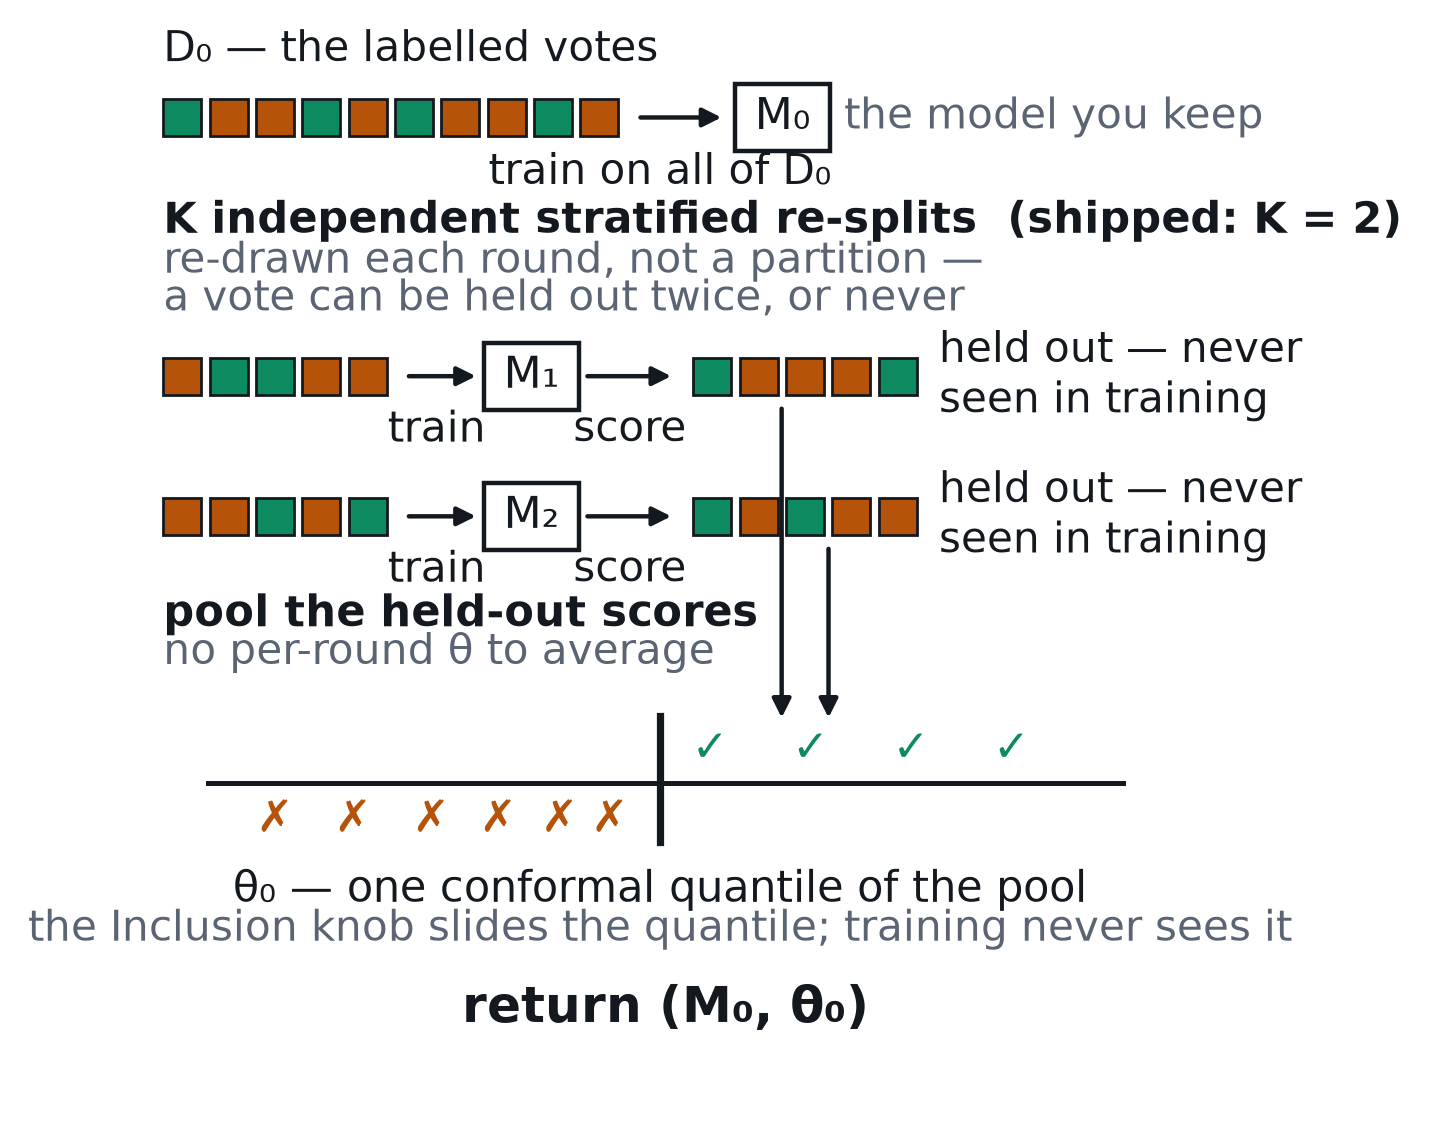
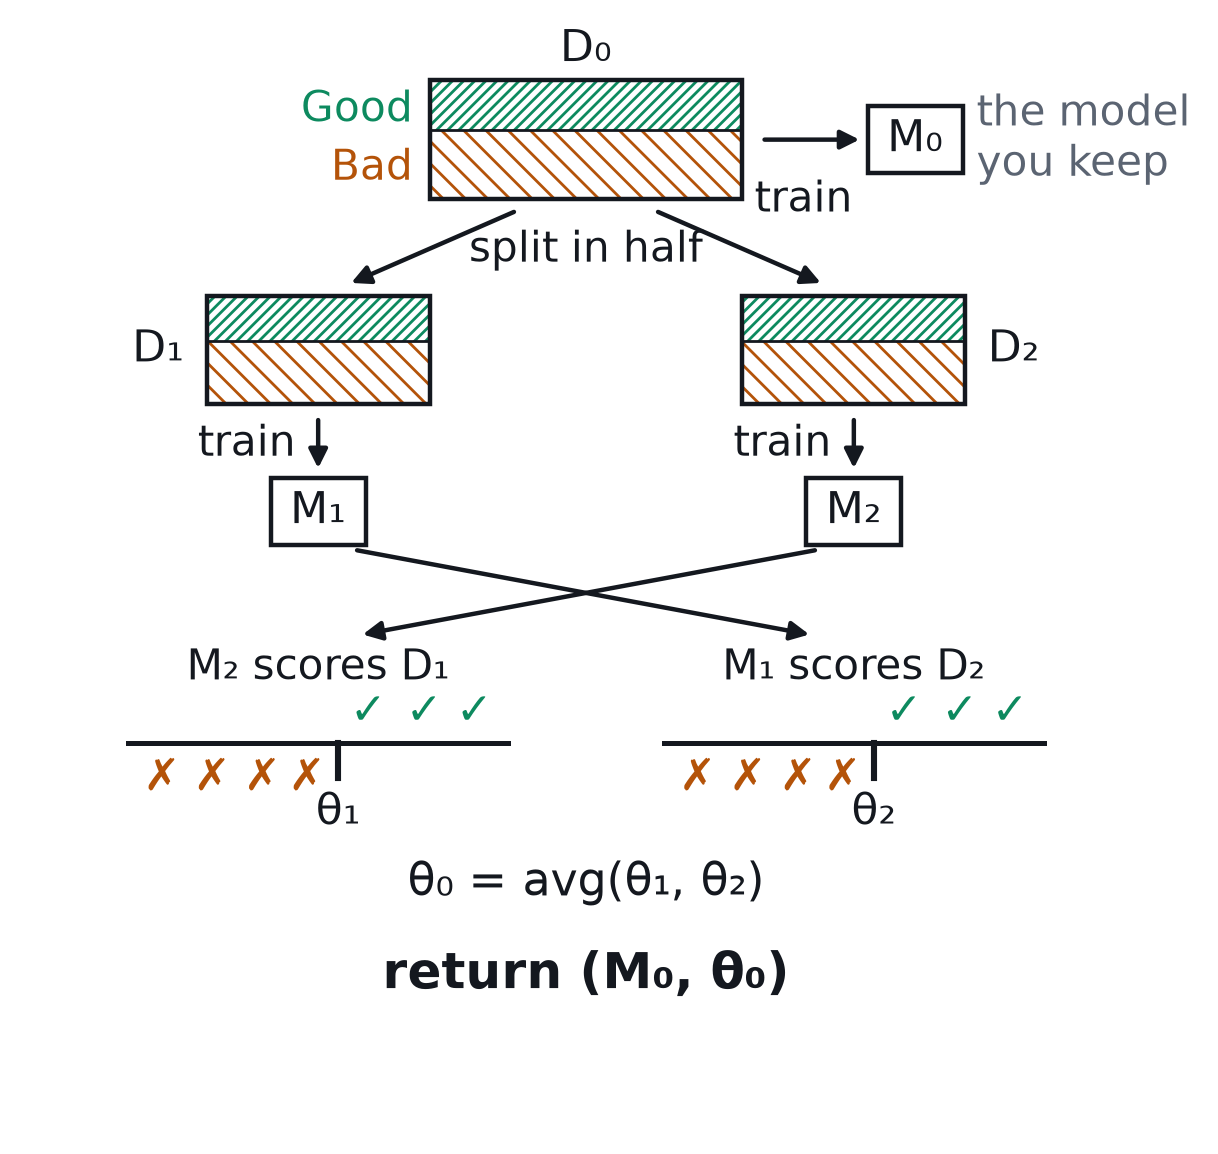
Redraw the cross-calibration figure as the original half-split idea
Per feedback on issue #3207: the iteration-1 slide should teach the
initial version of cross-calibration (partition in half, train per half,
cross-score, average the two cuts), leaving pooling / quantile / re-drawn
splits as later refinements of the story. Media are amorphous green (Good)
and red (Bad) regions as in the mockup, and no implementation jargon
appears in the figure.

Claude-Session: https://claude.ai/code/session_0189rZgYH7wrcWb1QEZoAdxN

Changed region(s): [[0.0, 0.0309, 0.9984, 0.9259]]

diff --git a/slides/figs/src/make-calib-figs.py b/slides/figs/src/make-calib-figs.py
@@ -69,15 +69,16 @@ def gaussian(x: np.ndarray, mu: float, var: float) -> np.ndarray:
 
 
 def xcal_flow_fig() -> None:
-    """Schematic of cross-calibration (issue #3207), drawn to match the code.
+    """Schematic of the original cross-calibration idea (issue #3207).
 
-    Deliberate divergences from the hand mockup the issue attached, because the
-    mockup drew a different algorithm than `calculate_cross_calibration_threshold`:
-    the rounds are independent stratified *re-draws* of the whole labelset (not
-    a partition into halves), and there are no per-fold thresholds to average —
-    the held-out scores are pooled and one conformal quantile is cut
-    (`threshold_from_fold_orderings`). Green = Good, red = Bad, everything else
-    ink-on-white per the issue.
+    Follows the issue's hand mockup: this is the *iteration-1* slide, so it
+    draws the simple initial version — partition the labelled data in half,
+    train a model per half, score the half each model never saw, find a cut
+    per half, and average the two cuts. The refinements the shipped code adds
+    on top (pooled folds, the conformal quantile, re-drawn splits) are later
+    iterations of the deck's story and deliberately absent here. Green = Good
+    media, red = Bad media (amorphous regions, as in the mockup); everything
+    else ink on white.
     """
     from matplotlib.patches import FancyArrowPatch, Rectangle  # noqa: PLC0415
 
@@ -86,36 +87,22 @@ def xcal_flow_fig() -> None:
     ax.set_ylim(0, 10)
     ax.set_axis_off()
 
-    # One square per labelled vote; True = Good (green), False = Bad (rust).
-    votes = [True, False, False, True, False, True, False, False, True, False]
-    sq, gap = 0.34, 0.075
+    def data_block(x0: float, y0: float, w: float, h: float) -> None:
+        """A block of labelled media: an amorphous green (Good) region over a red (Bad) one."""
+        good_h = 0.42 * h
+        ax.add_patch(
+            Rectangle((x0, y0 + h - good_h), w, good_h, facecolor="white", edgecolor=GREEN, hatch="//////", linewidth=0, zorder=2)
+        )
+        ax.add_patch(
+            Rectangle((x0, y0), w, h - good_h, facecolor="white", edgecolor=RUST, hatch="\\\\\\", linewidth=0, zorder=2)
+        )
+        ax.add_patch(Rectangle((x0, y0), w, h, facecolor="none", edgecolor=INK, linewidth=1.6, zorder=3))
+        ax.plot([x0, x0 + w], [y0 + h - good_h] * 2, color=INK, linewidth=1.0, zorder=3)
 
-    def vote_row(x0: float, y0: float, labels: list[bool]) -> float:
-        for i, good in enumerate(labels):
-            ax.add_patch(
-                Rectangle(
-                    (x0 + i * (sq + gap), y0),
-                    sq,
-                    sq,
-                    facecolor=GREEN if good else RUST,
-                    edgecolor=INK,
-                    linewidth=1.0,
-                    zorder=3,
-                )
-            )
-        return x0 + len(labels) * (sq + gap) - gap
-
-    def arrow(xy_from: tuple[float, float], xy_to: tuple[float, float], rad: float = 0.0) -> None:
+    def arrow(xy_from: tuple[float, float], xy_to: tuple[float, float]) -> None:
         ax.add_patch(
             FancyArrowPatch(
-                xy_from,
-                xy_to,
-                arrowstyle="-|>",
-                mutation_scale=14,
-                color=INK,
-                linewidth=1.6,
-                connectionstyle=f"arc3,rad={rad}",
-                zorder=2,
+                xy_from, xy_to, arrowstyle="-|>", mutation_scale=14, color=INK, linewidth=1.6, zorder=2
             )
         )
 
@@ -126,63 +113,49 @@ def xcal_flow_fig() -> None:
         )
         ax.text(cx, cy, label, ha="center", va="center", fontsize=16, color=INK, zorder=4)
 
-    # ── the model you keep: train M0 on every vote ────────────────────────────
-    ax.text(0.5, 9.6, "D₀ — the labelled votes", ha="left", va="bottom", fontsize=15, color=INK)
-    xa_end = vote_row(0.5, 9.0, votes)
-    arrow((xa_end + 0.15, 9.17), (5.55, 9.17))
-    ax.text(4.95, 8.85, "train on all of D₀", ha="center", va="top", fontsize=15, color=INK)
-    model_box(6.05, 9.17, "M₀")
-    ax.text(6.6, 9.17, "the model you keep", ha="left", va="center", fontsize=15, color=SOFT)
+    def score_line(cx: float, theta_label: str) -> None:
+        """Held-out scores on a number line: Bad low, Good high, a cut between."""
+        y = 3.55
+        ax.plot([cx - 1.7, cx + 1.7], [y, y], color=INK, linewidth=1.8, zorder=2)
+        for x in (-1.4, -0.95, -0.5, -0.1):
+            ax.text(cx + x, y - 0.12, "✗", ha="center", va="top", fontsize=16, color=RUST, fontweight="bold")
+        for x in (0.45, 0.95, 1.4):
+            ax.text(cx + x, y + 0.08, "✓", ha="center", va="bottom", fontsize=16, color=GREEN, fontweight="bold")
+        ax.plot([cx + 0.18] * 2, [y - 0.32, y], color=INK, linewidth=2.2, zorder=3)
+        ax.text(cx + 0.18, y - 0.44, theta_label, ha="center", va="top", fontsize=16, color=INK)
 
-    # ── K independent stratified re-splits ────────────────────────────────────
-    ax.text(
-        0.5, 8.1, "K independent stratified re-splits  (shipped: K = 2)", fontsize=15.5, color=INK, fontweight="bold"
-    )
-    ax.text(0.5, 7.73, "re-drawn each round, not a partition —", fontsize=15, color=SOFT)
-    ax.text(0.5, 7.38, "a vote can be held out twice, or never", fontsize=15, color=SOFT)
+    # ── D0 and the model you keep ─────────────────────────────────────────────
+    ax.text(5.0, 9.78, "D₀", ha="center", va="bottom", fontsize=16, color=INK)
+    data_block(3.6, 8.6, 2.8, 1.1)
+    ax.text(3.45, 9.42, "Good", ha="right", va="center", fontsize=15, color=GREEN)
+    ax.text(3.45, 8.88, "Bad", ha="right", va="center", fontsize=15, color=RUST)
+    arrow((6.55, 9.15), (7.5, 9.15))
+    ax.text(6.95, 8.78, "train", ha="center", va="top", fontsize=15, color=INK)
+    model_box(7.95, 9.15, "M₀")
+    ax.text(8.5, 9.15, "the model\nyou keep", ha="left", va="center", fontsize=15, color=SOFT)
 
-    # Round 1 holds out votes {0, 2, 4, 6, 8}; round 2 re-draws {0, 2, 3, 7, 9}.
-    # Both splits are stratified: 2 Good + 3 Bad on each side, every round.
-    holdouts = [[0, 2, 4, 6, 8], [0, 2, 3, 7, 9]]
-    for row, (y0, held) in enumerate(zip((6.6, 5.3), holdouts)):
-        train = [votes[i] for i in range(len(votes)) if i not in held]
-        cal = [votes[i] for i in held]
-        yc = y0 + sq / 2
-        xt_end = vote_row(0.5, y0, train)
-        arrow((xt_end + 0.15, yc), (3.35, yc))
-        ax.text((xt_end + 3.4) / 2, y0 - 0.14, "train", ha="center", va="top", fontsize=15, color=INK)
-        model_box(3.8, yc, f"M{chr(0x2081 + row)}")
-        arrow((4.25, yc), (5.1, yc))
-        ax.text(4.68, y0 - 0.14, "score", ha="center", va="top", fontsize=15, color=INK)
-        xc_end = vote_row(5.25, y0, cal)
-        ax.text(xc_end + 0.2, yc, "held out — never\nseen in training", ha="left", va="center", fontsize=15, color=INK)
-        # Held-out scores drop into the pooled line below; the x positions sit
-        # in the gaps between round 2's squares so the arrows cross nothing.
-        arrow((6.04 + 0.42 * row, y0 - 0.08), (6.04 + 0.42 * row, 3.55))
+    # ── split in half ─────────────────────────────────────────────────────────
+    arrow((4.4, 8.5), (2.85, 7.8))
+    arrow((5.6, 8.5), (7.15, 7.8))
+    ax.text(5.0, 8.12, "split in half", ha="center", va="center", fontsize=15, color=INK)
+    for cx, name, label_x, label_ha in ((2.6, "D₁", 1.4, "right"), (7.4, "D₂", 8.6, "left")):
+        data_block(cx - 1.0, 6.7, 2.0, 1.0)
+        ax.text(label_x, 7.2, name, ha=label_ha, va="center", fontsize=16, color=INK)
+        arrow((cx, 6.6), (cx, 6.05))
+        ax.text(cx - 0.2, 6.32, "train", ha="right", va="center", fontsize=15, color=INK)
+        model_box(cx, 5.7, "M₁" if cx < 5 else "M₂")
 
-    # ── pool the held-out scores; cut one quantile ────────────────────────────
-    ax.text(0.5, 4.45, "pool the held-out scores", fontsize=15.5, color=INK, fontweight="bold")
-    ax.text(0.5, 4.1, "no per-round θ to average", fontsize=15, color=SOFT)
-    line_y = 3.0
-    ax.plot([0.9, 9.1], [line_y, line_y], color=INK, linewidth=1.8, zorder=2)
-    for x in (1.5, 2.2, 2.9, 3.5, 4.05, 4.5):
-        ax.text(x, line_y - 0.14, "✗", ha="center", va="top", fontsize=16, color=RUST, fontweight="bold")
-    for x in (5.4, 6.3, 7.2, 8.1):
-        ax.text(x, line_y + 0.1, "✓", ha="center", va="bottom", fontsize=16, color=GREEN, fontweight="bold")
-    cut_x = 4.95
-    ax.plot([cut_x, cut_x], [line_y - 0.55, line_y + 0.62], color=INK, linewidth=2.6, zorder=4)
-    ax.text(cut_x, 2.2, "θ₀ — one conformal quantile of the pool", ha="center", va="top", fontsize=15.5, color=INK)
-    ax.text(
-        cut_x,
-        1.83,
-        "the Inclusion knob slides the quantile; training never sees it",
-        ha="center",
-        va="top",
-        fontsize=15,
-        color=SOFT,
-    )
+    # ── cross-scoring: each model scores the half it never saw ────────────────
+    arrow((2.9, 5.35), (7.05, 4.55))
+    arrow((7.1, 5.35), (2.95, 4.55))
+    ax.text(2.6, 4.05, "M₂ scores D₁", ha="center", va="bottom", fontsize=15, color=INK)
+    ax.text(7.4, 4.05, "M₁ scores D₂", ha="center", va="bottom", fontsize=15, color=INK)
+    score_line(2.6, "θ₁")
+    score_line(7.4, "θ₂")
 
-    ax.text(5.0, 0.9, "return (M₀, θ₀)", ha="center", va="center", fontsize=18, color=INK, fontweight="bold")
+    # ── average the two cuts ──────────────────────────────────────────────────
+    ax.text(5.0, 2.25, "θ₀ = avg(θ₁, θ₂)", ha="center", va="center", fontsize=16.5, color=INK)
+    ax.text(5.0, 1.4, "return (M₀, θ₀)", ha="center", va="center", fontsize=18, color=INK, fontweight="bold")
 
     save(fig, OUT, "calib-xcal-flow.png")
 

diff --git a/slides/fragments/xcal.md b/slides/fragments/xcal.md
@@ -4,26 +4,26 @@
 
 ## Cross-calibration
 
-- Re-split the votes; train fold models; score the **held-out** side
-- Pool the folds; take one **conformal quantile** cut
-- Inclusion biases the quantile — never the training
+- Split the votes in half; train a model on each half
+- Each model scores the half it **never saw** — honest scores
+- Cut each half; **average** the two cuts
 
 <!-- This is the pre-history of the line, the textbook answer everything else
      is measured against. Walk the mechanism off the figure, top to bottom:
-     the final model M0 trains on every vote, and its scores on its own
+     the model you keep, M0, trains on every vote — but its scores on its own
      training votes are optimistically shifted, so you cannot cut on them
-     directly. Instead each round re-draws a stratified Train/Calibrate split
-     of the whole labelset (not a partition — a vote can be held out twice,
-     or never), trains a fold model on the Train side, and scores the
-     held-out side with the model that never saw it — honest scores, at the
-     price of training extra models on half the data. Green squares are Good
-     votes, red are Bad, matching the checks and crosses on the pooled score
-     line.
+     directly. So split the votes in half, train a model on each half, and
+     have each model score the half it never trained on — honest scores, at
+     the price of training extra models on half the data. On each half the
+     Bad scores pile up low and the Good scores pile up high, so cut in the
+     gap; average the two cuts and hand θ0 to M0. Green is Good media, red is
+     Bad, matching the checks and crosses on the score lines.
 
-     Two design choices worth a sentence each: the folds are pooled rather
-     than averaged, so the Inclusion knob keeps its resolution over the merged
-     score set; and Inclusion enters only by biasing which quantile is cut,
-     never by reweighting training, so the ranking is identical at every knob
-     setting. Close on the property that defines the iteration: this is a
-     consistent estimator — with enough labels it converges to the right
-     answer. The next slide is about what happens before "enough". -->
+     This slide teaches the original, simplest form of the idea; the shipped
+     code has since refined it (the halves are pooled into one score set
+     rather than cut separately, the cut is a quantile the Inclusion knob can
+     bias, the splits are re-drawn rather than a fixed partition) — those are
+     later polish, not the idea, so don't front-load them here. Close on the
+     property that defines the iteration: this is a consistent estimator —
+     with enough labels it converges to the right answer. The next slide is
+     about what happens before "enough". -->

diff --git a/slides/fragments/xcal.short.md b/slides/fragments/xcal.short.md
@@ -4,17 +4,20 @@
 
 ## Cross-calibration
 
-- Pooled held-out folds, one conformal quantile cut
+- Half-vs-half models score the votes they **never saw**; average the cuts
 - Right in the limit — wild when positives are scarce
 
 <!-- Brief-deck cut of xcal + xcal-results; one slide carries the whole
      iteration, so give the mechanism in one breath and the verdict in the
-     next. Mechanism (walk the figure top to bottom): train the final model
-     on every vote; per round, re-draw a stratified split, train a fold
-     model, score the votes it never saw; pool the held-out scores and cut
-     one conformal quantile — honest scores, and a consistent estimator that
-     is provably right with enough labels. Verdict: "enough labels" is doing all
-     the work. The cut is a low quantile over tens of positives, folds redraw
-     every vote, and below about 20 votes it degenerates into "admit nothing"
-     spikes. Plant the phrase "consistent but starved" — the next slide's GMM
-     is its exact mirror image, and the tension between them is the talk. -->
+     next. Mechanism (walk the figure top to bottom): train the model you
+     keep on every vote; split the votes in half, train a model on each
+     half, and score each half with the model that never saw it — honest
+     scores — then cut each half in the gap and average the two cuts. A
+     consistent estimator that is provably right with enough labels. (The
+     shipped code has since polished this — pooled halves, a quantile cut
+     the Inclusion knob can bias — but this slide teaches the original
+     idea.) Verdict: "enough labels" is doing all the work. The cut hangs
+     off tens of positives, half of them hidden from each model, and below
+     about 20 votes it degenerates into "admit nothing" spikes. Plant the
+     phrase "consistent but starved" — the next slide's GMM is its exact
+     mirror image, and the tension between them is the talk. -->
